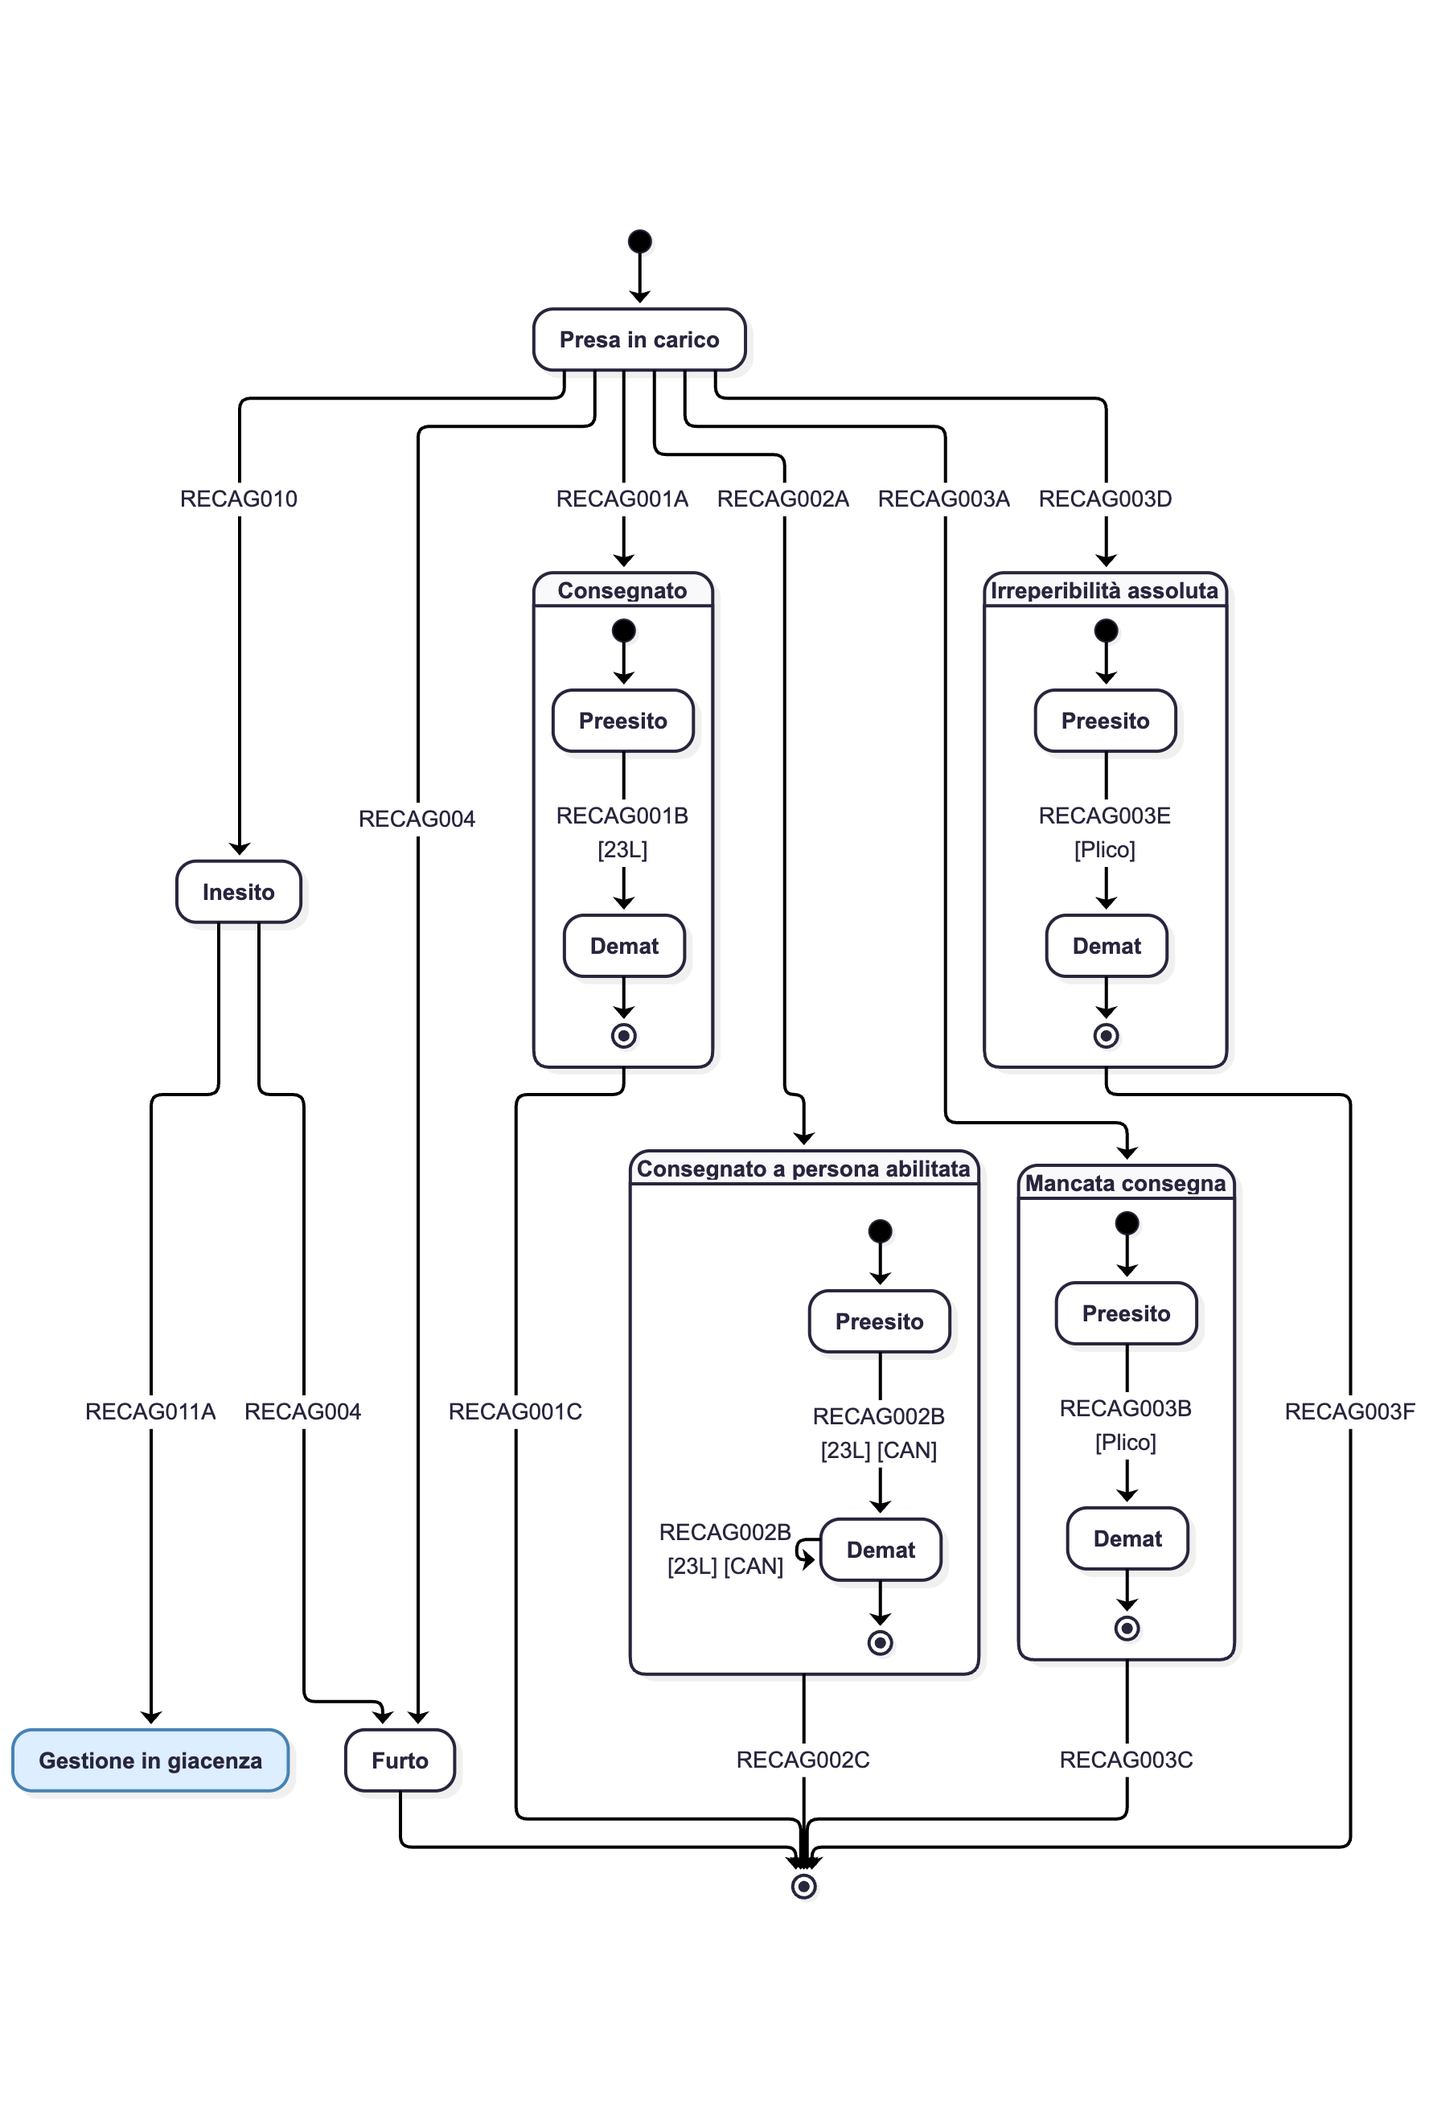
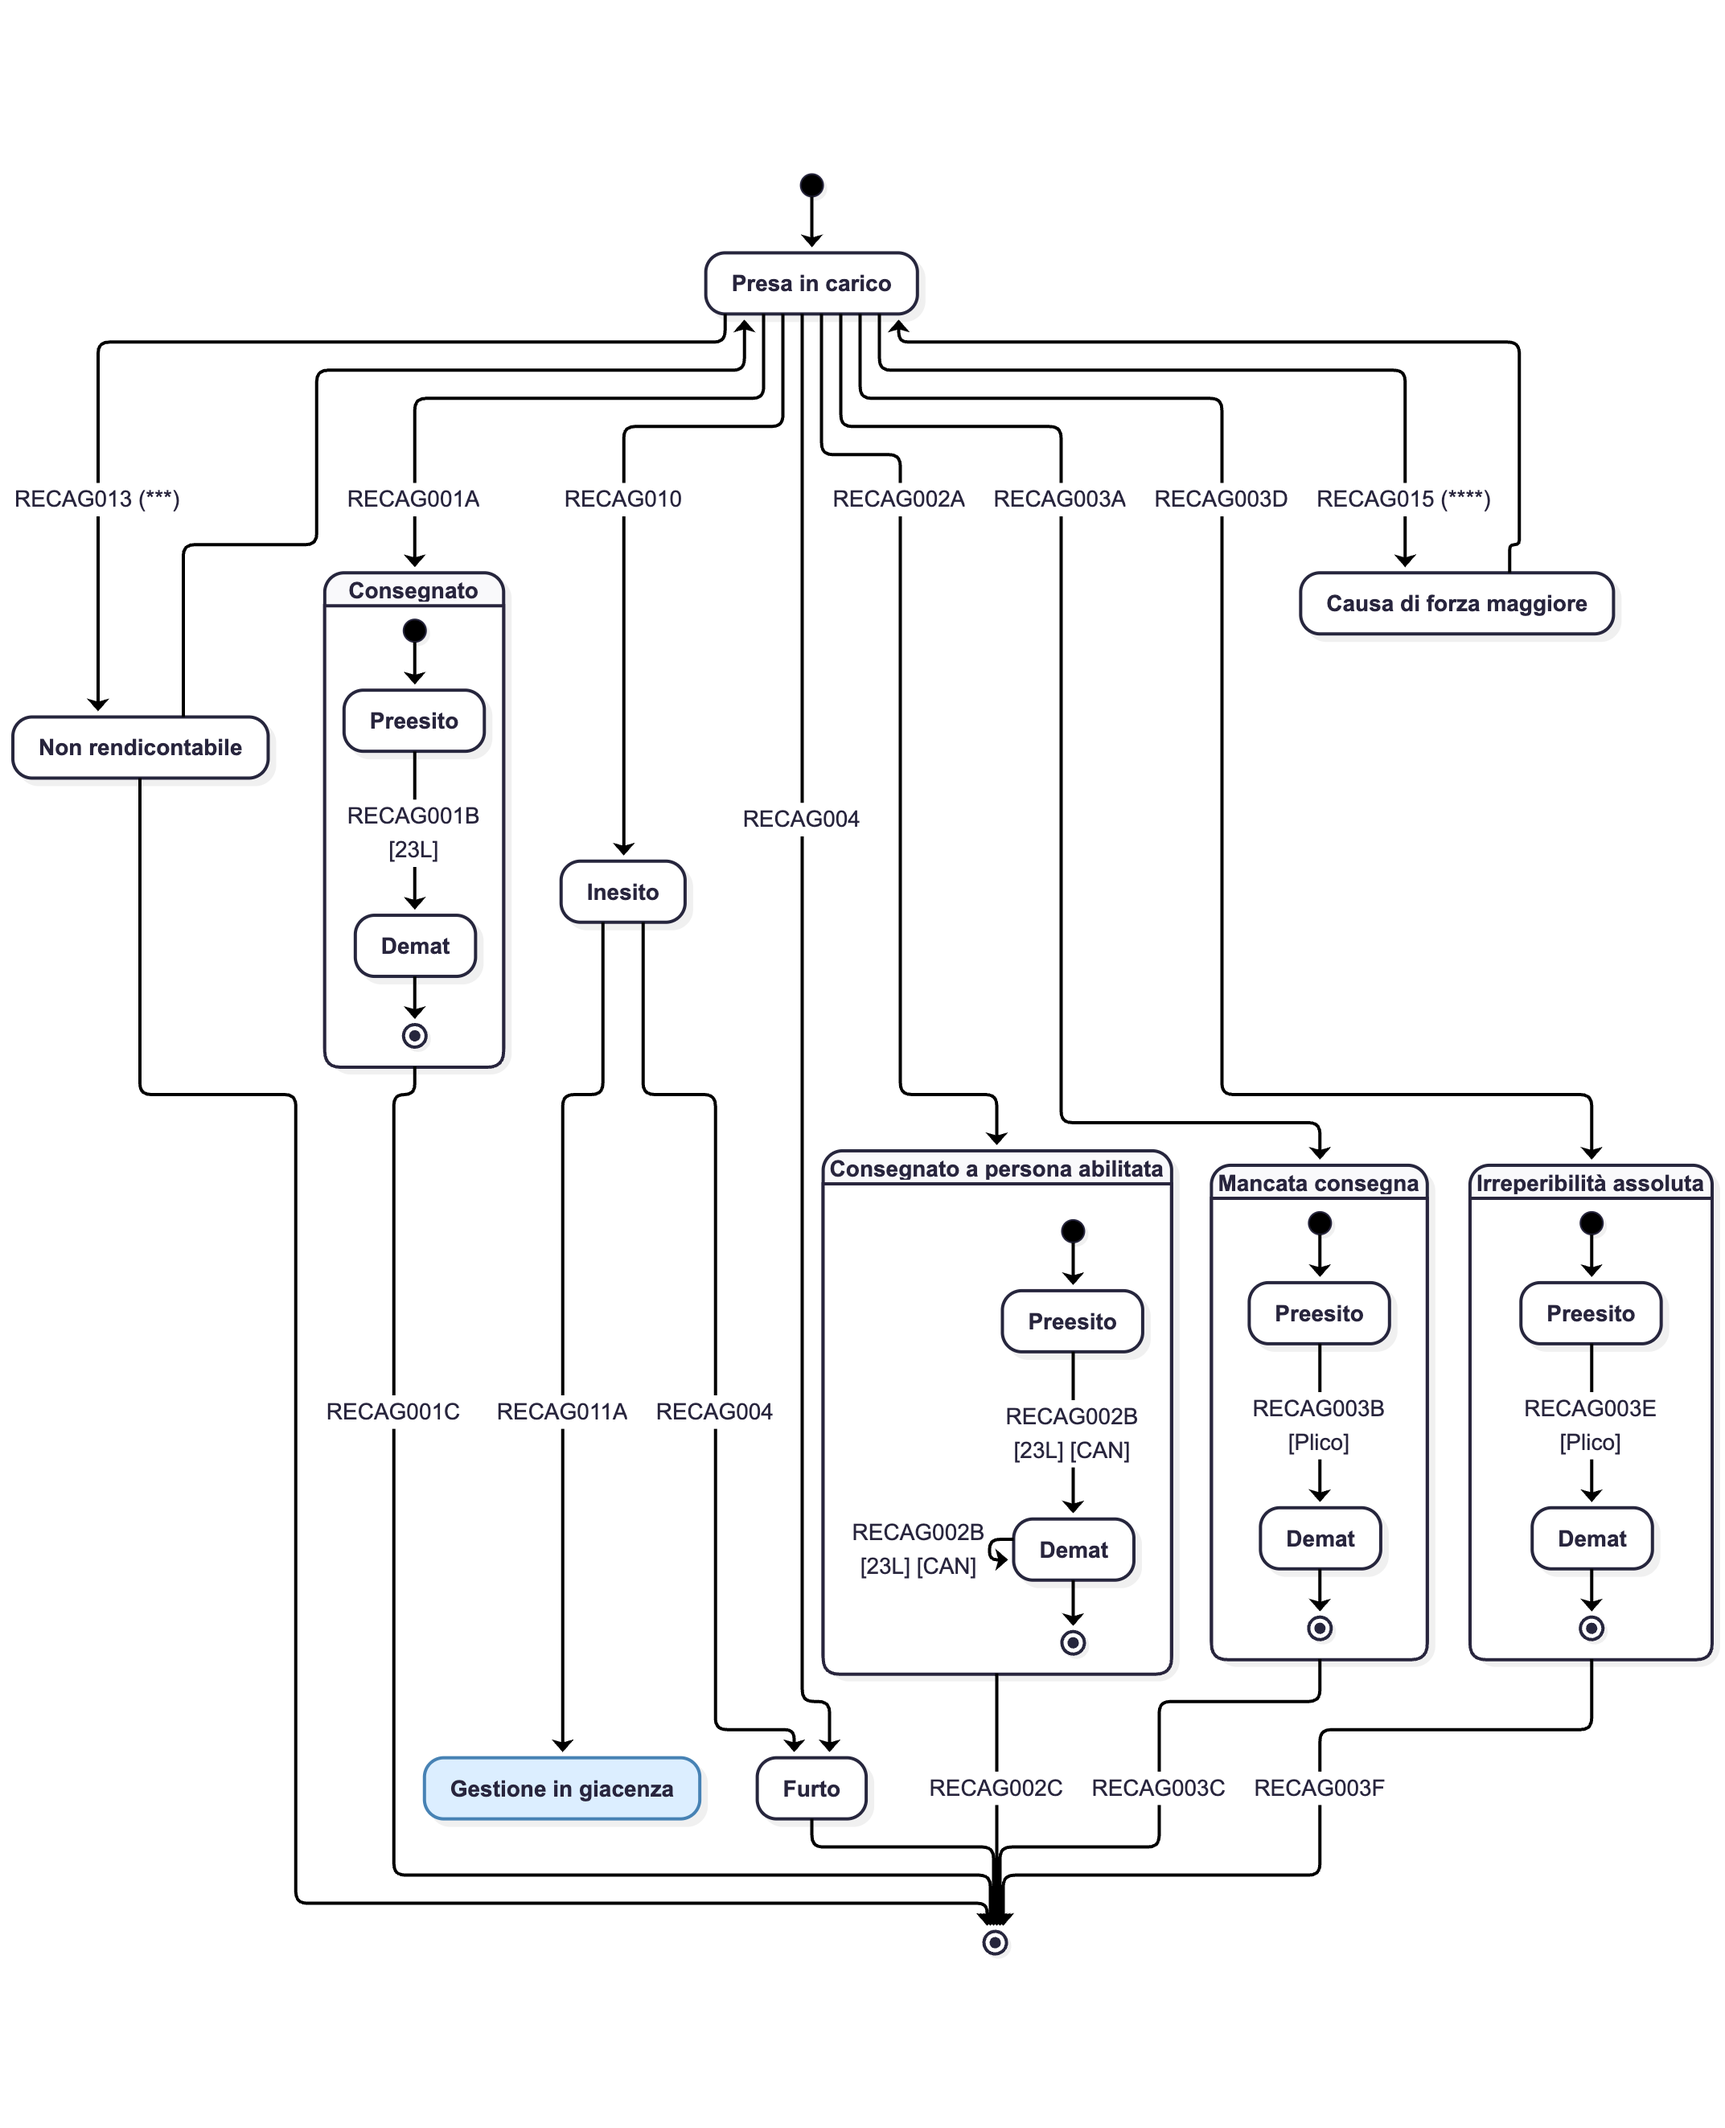
Causa Forza Maggiore e non rendicontabile per 890

diff --git a/docs/diagrams/890.md b/docs/diagrams/890.md
@@ -8,6 +8,13 @@
 
 (\**) L'evento RECAG012 rappresenta l'accettazione del 23L. Lo `statusDateTime` dovrà essere valorizzato con la seguente logica: data di ritiro in caso di consegna in giacenza antecedente i 10 gionri dall'invio della CAD, oppure data di invio della CAD + 10 giorni. La macchina a stati non risente della produzione di questo evento, il flusso di rendicontazione continua a partire dal precedente evento ricevuto.
 
+(\***) Trattasi di impossibilità di chiusura della rendicontazione, la quale può verificarsi sia come primo esito di rendicontazione sia a seguito di un pre-esito di rendicontazione.
+Nell'eventualità in cui il recapitista dovesse rinvenire informazioni utili al completamento dell'attività di postalizzazione per suddetta raccomandta, questi dovrà procedere alla rendicontazione in conformità alla macchina a stati.
+
+(\****) Trattasi di una sospensione della postalizzazione dovuta ad una causa di forza maggiore, la postalizzazione verrà gestita dal recapitista al verificarsi di condizioni favorevoli alla consegna.
+
+
+
 <details>
   <summary>Codice Mermaid</summary>
 
@@ -73,6 +80,15 @@ stateDiagram-v2
   %% Furto
   Furto --> [*]
 
+  %% Non rendicontabile
+  NonRendicontabile --> PresaInCarico
+  PresaInCarico --> NonRendicontabile:RECAG013 (***)
+  NonRendicontabile --> [*]
+  
+  %% Causa forza maggiore
+  CausaForzaMaggiore --> PresaInCarico
+  PresaInCarico --> CausaForzaMaggiore:RECAG015 (****)
+
   %% Etichette
   PresaInCarico:Presa in carico
   Consegnato: Consegnato
@@ -88,6 +104,8 @@ stateDiagram-v2
   Preesito3i:Preesito
   Demat3i:Demat
   GestioneGiacenza: Gestione in giacenza
+  CausaForzaMaggiore:Causa di forza maggiore
+  NonRendicontabile:Non rendicontabile
 
   %% Stile personalizzato
   style GestioneGiacenza fill:#DCEEFF,stroke:#4682B4

diff --git a/docs/diagrams/AR.md b/docs/diagrams/AR.md
@@ -72,8 +72,8 @@ stateDiagram-v2
   NonRendicontabile --> [*]
   
   %% Causa forza maggiore
-  CausaForzaMaggione --> PresaInCarico
-  PresaInCarico --> CausaForzaMaggione:RECRN015 (**)
+  CausaForzaMaggiore --> PresaInCarico
+  PresaInCarico --> CausaForzaMaggiore:RECRN015 (**)
 
   %% Chiusura fascicolo
   Consegnato --> [*]:RECRN001C
@@ -115,7 +115,7 @@ stateDiagram-v2
   PresaInCarico:Presa in carico
   InGiacenza:In giacenza
   Furto:Furto, smarrimento o deterioramento
-  CausaForzaMaggione:Causa di forza maggiore
+  CausaForzaMaggiore:Causa di forza maggiore
   NonRendicontabile:Non rendicontabile
 ```
 </details>

diff --git a/docs/diagrams/RS.md b/docs/diagrams/RS.md
@@ -80,8 +80,8 @@ stateDiagram-v2
   Furto --> [*]
   
   %% Causa forza maggiore
-  PresaInCarico --> CausaForzaMaggione:RECRS015 (**)
-  CausaForzaMaggione --> PresaInCarico
+  PresaInCarico --> CausaForzaMaggiore:RECRS015 (**)
+  CausaForzaMaggiore --> PresaInCarico
 
 
   %% Etichette
@@ -101,7 +101,7 @@ stateDiagram-v2
   PresaInCarico:Presa in carico
   InGiacenza:In giacenza
   Furto:Furto, smarrimento o deterioramento
-  CausaForzaMaggione:Causa di forza maggiore
+  CausaForzaMaggiore:Causa di forza maggiore
   NonRendicontabile:Non rendicontabile
 ```
 </details>
